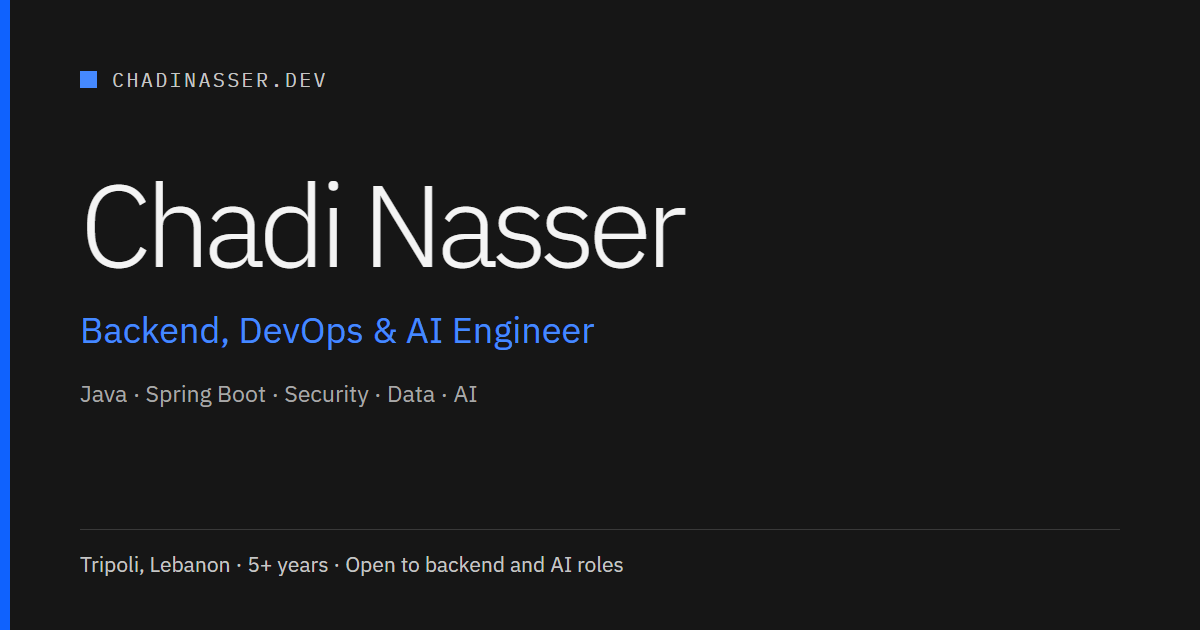
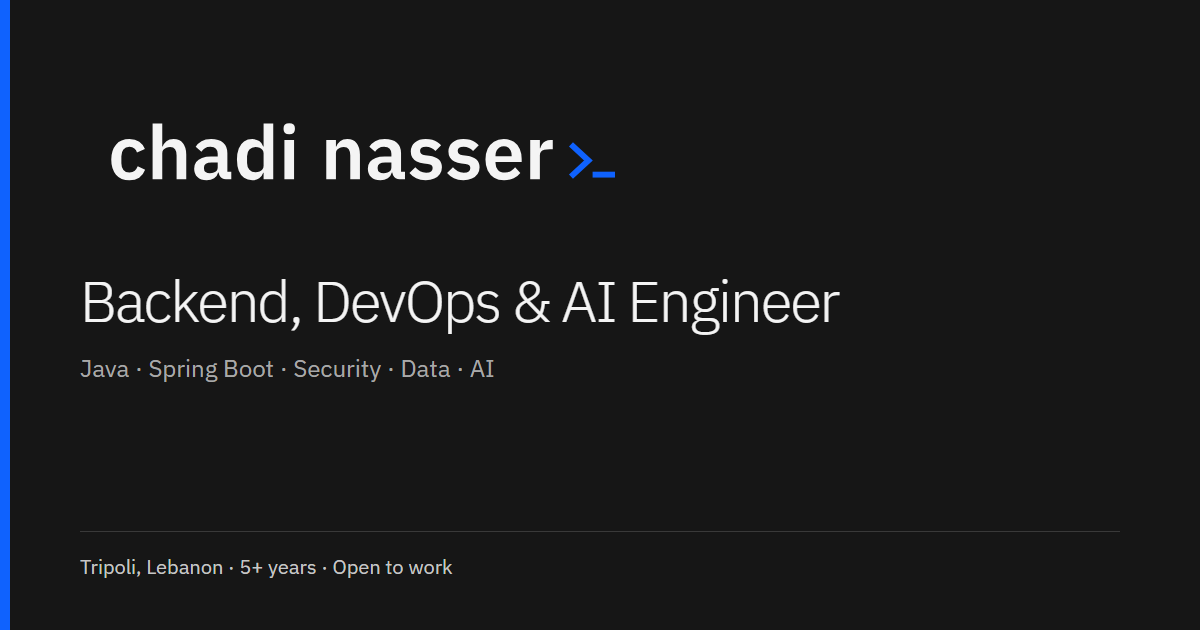
brand: add CN mark and terminal wordmark

diff --git a/src/styles/global.css b/src/styles/global.css
@@ -213,10 +213,22 @@ pre {
   text-decoration: none;
 }
 
-.brand-mark {
-  width: 0.5rem;
-  height: 0.5rem;
-  background: var(--accent);
+.brand-logo {
+  display: block;
+  width: 2rem;
+  height: 2rem;
+}
+
+.sr-only {
+  position: absolute;
+  width: 1px;
+  height: 1px;
+  padding: 0;
+  margin: -1px;
+  overflow: hidden;
+  clip: rect(0, 0, 0, 0);
+  white-space: nowrap;
+  border: 0;
 }
 
 .site-nav {
